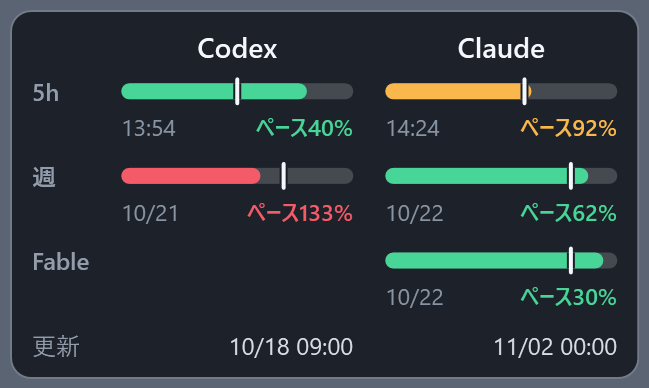
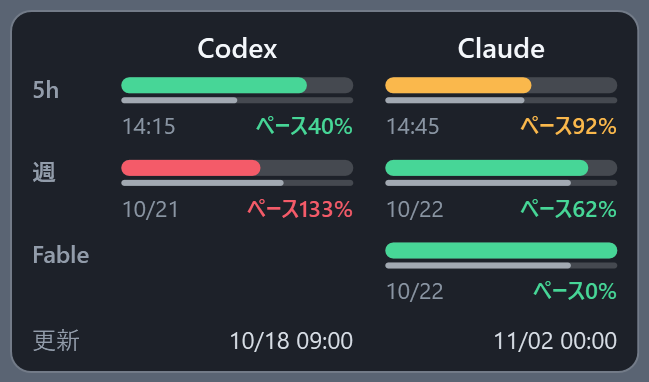
Compare remaining usage with remaining time in a two-bar gauge
- Replace the single gauge and its time marker with two stacked bars:
  the thick top bar is remaining usage, the thin bottom bar is remaining
  time until reset; both are measured values that shrink the same way,
  so a top bar longer than the bottom one means usage will last
- Color the top bar with the same color as the pace text, and use gray
  while pace is not yet shown at the start of a window
- Update the tooltip legend, README and preview images

diff --git a/CodexUsageWidget.App/MainWindow.xaml b/CodexUsageWidget.App/MainWindow.xaml
@@ -31,13 +31,13 @@
                     <RowDefinition Height="Auto" SharedSizeGroup="Renewal"/>
                 </Grid.RowDefinitions>
                 <TextBlock Grid.Row="1" Text="5h" Foreground="{StaticResource TextLabel}"
-                           FontSize="12" FontWeight="SemiBold" Margin="0,3,0,0"
+                           FontSize="12" FontWeight="SemiBold" Margin="0,1.5,0,0"
                            Visibility="{Binding Options.ShowFiveHour, Converter={StaticResource BoolToVisibility}}"/>
                 <TextBlock Grid.Row="2" Text="週" Foreground="{StaticResource TextLabel}"
-                           FontSize="12" FontWeight="SemiBold" Margin="0,3,0,0"
+                           FontSize="12" FontWeight="SemiBold" Margin="0,1.5,0,0"
                            Visibility="{Binding Options.ShowWeekly, Converter={StaticResource BoolToVisibility}}"/>
                 <TextBlock Grid.Row="3" Text="{Binding ModelRowLabel, Mode=OneWay}" Foreground="{StaticResource TextLabel}"
-                           FontSize="12" FontWeight="SemiBold" Margin="0,3,0,0"
+                           FontSize="12" FontWeight="SemiBold" Margin="0,1.5,0,0"
                            Visibility="{Binding ShowModelRow, Converter={StaticResource BoolToVisibility}}"/>
                 <TextBlock Grid.Row="4" Text="更新" Foreground="{StaticResource TextLabel}"
                            FontSize="12" Margin="0,3,0,2" VerticalAlignment="Center"

diff --git a/CodexUsageWidget.App/App.xaml b/CodexUsageWidget.App/App.xaml
@@ -11,12 +11,12 @@
         <SolidColorBrush x:Key="TextLabel" Color="#929CAA"/>
         <SolidColorBrush x:Key="TextMuted" Color="#8A95A3"/>
 
-        <!-- 1つの利用枠: ゲージ（塗り=残り利用量、縦線=残り時間）・（リセット / ペース）。正確な残量%はツールチップ -->
+        <!-- 1つの利用枠: 二段ゲージ（上=残り利用量、下=残り時間）・（リセット / ペース）。正確な残量%はツールチップ -->
         <DataTemplate x:Key="LimitCell">
             <StackPanel Margin="0,4,0,6">
                 <controls:UsageGauge Remaining="{Binding RemainingPercent, Mode=OneWay}"
                                      TimeRemaining="{Binding TimeRemainingPercent, Mode=OneWay}"
-                                     Fill="{Binding GaugeBrush, Mode=OneWay}"/>
+                                     Fill="{Binding PaceBrush, Mode=OneWay}"/>
                 <Grid Margin="0,3,0,0"
                       Visibility="{Binding Options.ShowDetailLine, Converter={StaticResource BoolToVisibility}}">
                     <StackPanel Orientation="Horizontal" HorizontalAlignment="Left">

diff --git a/CodexUsageWidget.App/ViewModels/LimitViewModel.cs b/CodexUsageWidget.App/ViewModels/LimitViewModel.cs
@@ -14,35 +14,32 @@ public sealed class LimitViewModel : NotifyBase
     private static readonly Brush Bad = Frozen(244, 91, 105);
 
     private double _remainingPercent;
+    private double _timeRemainingPercent = double.NaN;
     private bool _hasWindow;
     private string _percentText = "--%";
     private string _windowLabel = string.Empty;
-    private Brush _accentBrush = Neutral;
-    private Brush _gaugeBrush = Neutral;
-    private double _timeRemainingPercent = double.NaN;
-    private int _windowMinutes;
     private string _paceShortText = string.Empty;
     private Brush _paceBrush = Neutral;
     private string _resetShortText = string.Empty;
     private string _resetDateText = "--/-- --:--";
     private string _resetText = "データ待機中";
     private DateTimeOffset? _resetsAt;
+    private int _windowMinutes;
 
     public LimitViewModel(DisplayOptions options) => Options = options;
 
     public DisplayOptions Options { get; }
+    /// <summary>残り利用量（0〜100）。ゲージ上段。</summary>
     public double RemainingPercent { get => _remainingPercent; private set => Set(ref _remainingPercent, value); }
+    /// <summary>リセットまでの残り時間の割合（0〜100）。ゲージ下段。不明ならNaN。</summary>
+    public double TimeRemainingPercent { get => _timeRemainingPercent; private set => Set(ref _timeRemainingPercent, value); }
     /// <summary>この利用枠が存在するか。ないときにバーを空（=使い切り）と誤読させないため、セルごと隠す。</summary>
     public bool HasWindow { get => _hasWindow; private set => Set(ref _hasWindow, value); }
     public string PercentText { get => _percentText; private set => Set(ref _percentText, value); }
     /// <summary>行ラベルと長さが違う枠（例: 30日枠）のときだけ出す。</summary>
     public string WindowLabel { get => _windowLabel; private set => Set(ref _windowLabel, value); }
-    public Brush AccentBrush { get => _accentBrush; private set => Set(ref _accentBrush, value); }
-    /// <summary>ゲージの塗り色。ペースが分かればペースの色、まだ分からなければ残量の色。</summary>
-    public Brush GaugeBrush { get => _gaugeBrush; private set => Set(ref _gaugeBrush, value); }
-    /// <summary>リセットまでの残り時間の割合（0〜100）。ゲージの縦線の位置。不明ならNaN。</summary>
-    public double TimeRemainingPercent { get => _timeRemainingPercent; private set => Set(ref _timeRemainingPercent, value); }
     public string PaceShortText { get => _paceShortText; private set => Set(ref _paceShortText, value); }
+    /// <summary>ペースの色。ゲージ上段の塗りにも使い、文字とゲージの色を常に一致させる。</summary>
     public Brush PaceBrush { get => _paceBrush; private set => Set(ref _paceBrush, value); }
     /// <summary>24時間以内なら時刻、それより先なら日付だけ。</summary>
     public string ResetShortText { get => _resetShortText; private set => Set(ref _resetShortText, value); }
@@ -56,16 +53,14 @@ public sealed class LimitViewModel : NotifyBase
         if (window is null)
         {
             RemainingPercent = 0;
+            TimeRemainingPercent = double.NaN;
             PercentText = "--%";
             WindowLabel = string.Empty;
-            AccentBrush = Neutral;
             PaceShortText = string.Empty;
             PaceBrush = Neutral;
             ResetDateText = "--/-- --:--";
             ResetShortText = string.Empty;
             ResetText = "利用枠なし";
-            GaugeBrush = Neutral;
-            TimeRemainingPercent = double.NaN;
             _resetsAt = null;
             _windowMinutes = 0;
             return;
@@ -74,18 +69,10 @@ public sealed class LimitViewModel : NotifyBase
         RemainingPercent = window.RemainingPercent;
         PercentText = $"{Math.Round(RemainingPercent):0}%";
         WindowLabel = window.NonStandardLabel ?? string.Empty;
-        AccentBrush = RemainingPercent switch
-        {
-            > 50 => Good,
-            > 20 => Warn,
-            _ => Bad
-        };
         _resetsAt = window.ResetsAt;
         _windowMinutes = window.WindowMinutes;
         ResetDateText = _resetsAt?.ToLocalTime().ToString("MM/dd HH:mm") ?? "--/-- --:--";
-        var projected = window.ProjectedConsumptionPercent(observedAt);
-        UpdatePace(projected);
-        GaugeBrush = projected is null ? AccentBrush : PaceBrush;
+        UpdatePace(window.ProjectedConsumptionPercent(observedAt));
         UpdateCountdown();
     }
 

diff --git a/CodexUsageWidget.App/Controls/UsageGauge.cs b/CodexUsageWidget.App/Controls/UsageGauge.cs
@@ -9,17 +9,16 @@ using SolidColorBrush = System.Windows.Media.SolidColorBrush;
 namespace CodexUsageWidget.App.Controls;
 
 /// <summary>
-/// 残量ゲージ。塗り = 残り利用量、縦線 = 残り時間。
-/// 塗りが縦線より右に伸びていれば、リセットまで今のペースで持つ（余裕）。左で止まっていれば使いすぎ。
+/// 二段ゲージ。上の太いバー = 残り利用量、下の細いバー = リセットまでの残り時間。
+/// どちらも実測値で、時間とともに同じ向きへ縮む。上が下より長ければ余裕、短ければ使いすぎ。
 /// </summary>
 public sealed class UsageGauge : FrameworkElement
 {
-    private const double BarHeight = 8;
-    private const double MarkerOverhang = 3;
-    private const double MarkerWidth = 2;
+    private const double UsageHeight = 8;
+    private const double Gap = 2;
+    private const double TimeHeight = 3;
     private static readonly Brush TrackBrush = Frozen(Color.FromArgb(0x2E, 0xFF, 0xFF, 0xFF));
-    private static readonly Brush MarkerBrush = Frozen(Color.FromRgb(0xF4, 0xF7, 0xFB));
-    private static readonly Brush GapBrush = Frozen(Color.FromRgb(0x1A, 0x1E, 0x25));
+    private static readonly Brush TimeBrush = Frozen(Color.FromArgb(0xB3, 0xC9, 0xD1, 0xDC));
 
     public static readonly DependencyProperty RemainingProperty = DependencyProperty.Register(
         nameof(Remaining), typeof(double), typeof(UsageGauge),
@@ -36,35 +35,33 @@ public sealed class UsageGauge : FrameworkElement
     /// <summary>残り利用量（0〜100）。</summary>
     public double Remaining { get => (double)GetValue(RemainingProperty); set => SetValue(RemainingProperty, value); }
 
-    /// <summary>リセットまでの残り時間の割合（0〜100）。不明ならNaNで縦線を出さない。</summary>
+    /// <summary>リセットまでの残り時間の割合（0〜100）。不明ならNaNで下のバーを出さない。</summary>
     public double TimeRemaining { get => (double)GetValue(TimeRemainingProperty); set => SetValue(TimeRemainingProperty, value); }
 
     public Brush Fill { get => (Brush)GetValue(FillProperty); set => SetValue(FillProperty, value); }
 
-    protected override Size MeasureOverride(Size availableSize) => new(0, BarHeight + MarkerOverhang * 2);
+    protected override Size MeasureOverride(Size availableSize) => new(0, UsageHeight + Gap + TimeHeight);
 
     protected override void OnRender(DrawingContext drawingContext)
     {
         var width = ActualWidth;
         if (width <= 0) return;
 
-        var radius = BarHeight / 2;
-        var track = new Rect(0, MarkerOverhang, width, BarHeight);
-        drawingContext.DrawRoundedRectangle(TrackBrush, null, track, radius, radius);
-
-        var fillWidth = width * Math.Clamp(Remaining / 100d, 0d, 1d);
-        if (fillWidth > 0)
+        DrawBar(drawingContext, 0, UsageHeight, width, Remaining, Fill);
+        if (!double.IsNaN(TimeRemaining))
         {
-            var fillRadius = Math.Min(radius, fillWidth / 2);
-            drawingContext.DrawRoundedRectangle(Fill, null, new Rect(0, MarkerOverhang, fillWidth, BarHeight), fillRadius, fillRadius);
+            DrawBar(drawingContext, UsageHeight + Gap, TimeHeight, width, TimeRemaining, TimeBrush);
         }
+    }
 
-        if (double.IsNaN(TimeRemaining)) return;
-        var x = Math.Clamp(width * Math.Clamp(TimeRemaining / 100d, 0d, 1d), MarkerWidth / 2, width - MarkerWidth / 2);
-        var height = BarHeight + MarkerOverhang * 2;
-        // 塗りの上でも埋もれないよう、背景色の細い隙間で挟んでから白線を引く。
-        drawingContext.DrawRectangle(GapBrush, null, new Rect(x - MarkerWidth / 2 - 1, MarkerOverhang, MarkerWidth + 2, BarHeight));
-        drawingContext.DrawRoundedRectangle(MarkerBrush, null, new Rect(x - MarkerWidth / 2, 0, MarkerWidth, height), 1, 1);
+    private static void DrawBar(DrawingContext drawingContext, double top, double height, double width, double percent, Brush fill)
+    {
+        var radius = height / 2;
+        drawingContext.DrawRoundedRectangle(TrackBrush, null, new Rect(0, top, width, height), radius, radius);
+        var fillWidth = width * Math.Clamp(percent / 100d, 0d, 1d);
+        if (fillWidth <= 0) return;
+        var fillRadius = Math.Min(radius, fillWidth / 2);
+        drawingContext.DrawRoundedRectangle(fill, null, new Rect(0, top, fillWidth, height), fillRadius, fillRadius);
     }
 
     private static Brush Frozen(Color color)

diff --git a/CodexUsageWidget.App/ViewModels/ProviderViewModel.cs b/CodexUsageWidget.App/ViewModels/ProviderViewModel.cs
@@ -152,7 +152,7 @@ public sealed class ProviderViewModel : NotifyBase, IDisposable
             AddLimitLine("5h", FiveHour);
             AddLimitLine("週", Weekly);
             if (ModelLimitName is not null) AddLimitLine($"{ModelLimitName}（週間）", ModelLimit);
-            lines.Add("ゲージ: 塗り = 残り利用量、縦線 = 残り時間。塗りが縦線より右なら余裕");
+            lines.Add("ゲージ: 上 = 残り利用量、下 = 残り時間。上が下より長ければ余裕");
             lines.Add("ペース: 今のペースを続けた場合の、リセット時点の消費率（100%超で使い切る見込み）");
         }
         return string.Join(Environment.NewLine, lines);
